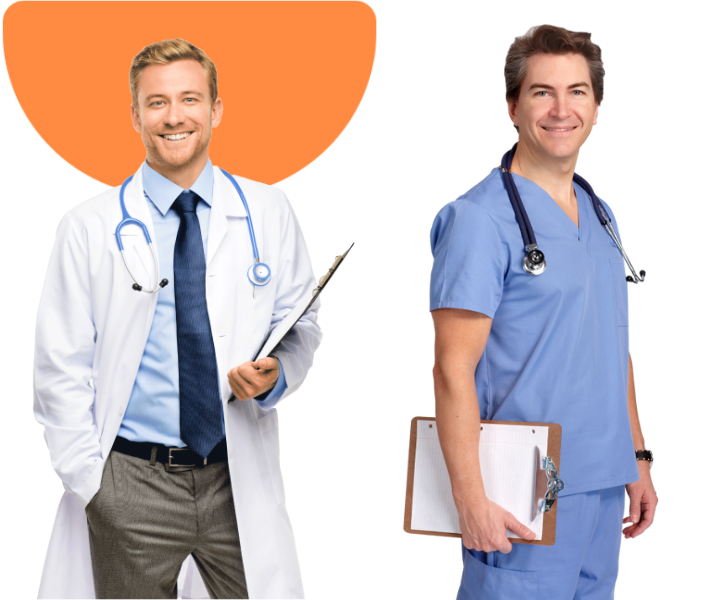
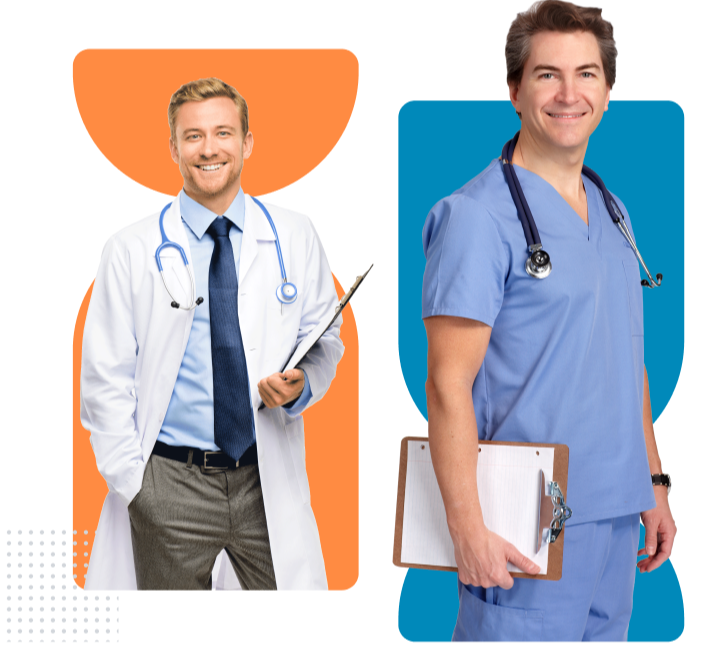
responsive navbar added, image added

diff --git a/src/Components/MobileHrader.js b/src/Components/MobileHrader.js
@@ -1,0 +1,108 @@
+import React, { useState } from 'react'
+import logo from '../images/logo.png';
+
+function MobileHrader() {
+    const [navbar, setNavbar] = useState(false);
+    return (
+        <>
+            <nav className="w-full bg-gray-800 shadow mobile-header">
+                <div className="justify-between px-4 mx-auto lg:max-w-7xl md:items-center md:flex md:px-8">
+                    <div>
+                        <div className="flex items-center justify-between py-3 md:py-5 md:block">
+                            <a className="flex title-font font-medium items-center text-gray-900 mb-4 md:mb-0">
+                                <img alt="feature" className="object-cover object-center" src={logo} />
+                                <span className="ml-3 text-orange-400 text-3xl">Doctor Guide</span>
+                            </a>
+                            <div className="md:hidden">
+                                <button
+                                    className="p-2 text-white rounded-md outline-none focus:border-gray-400 focus:border"
+                                    onClick={() => setNavbar(!navbar)}
+                                >
+                                    {navbar ? (
+                                        <svg
+                                            xmlns="http://www.w3.org/2000/svg"
+                                            className="w-6 h-6"
+                                            viewBox="0 0 20 20"
+                                            fill="currentColor"
+                                        >
+                                            <path
+                                                fillRule="evenodd"
+                                                d="M4.293 4.293a1 1 0 011.414 0L10 8.586l4.293-4.293a1 1 0 111.414 1.414L11.414 10l4.293 4.293a1 1 0 01-1.414 1.414L10 11.414l-4.293 4.293a1 1 0 01-1.414-1.414L8.586 10 4.293 5.707a1 1 0 010-1.414z"
+                                                clipRule="evenodd"
+                                            />
+                                        </svg>
+                                    ) : (
+                                        <svg
+                                            xmlns="http://www.w3.org/2000/svg"
+                                            className="w-6 h-6"
+                                            fill="none"
+                                            viewBox="0 0 24 24"
+                                            stroke="currentColor"
+                                            strokeWidth={2}
+                                        >
+                                            <path
+                                                strokeLinecap="round"
+                                                strokeLinejoin="round"
+                                                d="M4 6h16M4 12h16M4 18h16"
+                                            />
+                                        </svg>
+                                    )}
+                                </button>
+                            </div>
+                        </div>
+                    </div>
+                    <div>
+                        <div
+                            className={`flex-1 justify-self-center pb-3 mt-8 md:block md:pb-0 md:mt-0 ${navbar ? "block" : "hidden"
+                                }`}
+                        >
+                            <ul className="items-center justify-center space-y-8 md:flex md:space-x-6 md:space-y-0">
+                                <li className="text-gray-600 hover:text-blue-600">
+                                    <a className="mr-5 text-white flex">HOME
+                                        <span className='mt-1 ml-0.5'>
+                                            <svg xmlns="http://www.w3.org/2000/svg" width="16" height="16" fill="currentColor" class="bi bi-chevron-compact-down" viewBox="0 0 16 16"> <path fill-rule="evenodd" d="M1.553 6.776a.5.5 0 0 1 .67-.223L8 9.44l5.776-2.888a.5.5 0 1 1 .448.894l-6 3a.5.5 0 0 1-.448 0l-6-3a.5.5 0 0 1-.223-.67z" /> </svg>
+                                        </span>
+                                    </a>
+                                </li>
+                                <li className="text-gray-600 hover:text-blue-600">
+                                    <a className="mr-5 text-white flex">FEATURES
+                                        <span className='mt-1 ml-0.5'>
+                                            <svg xmlns="http://www.w3.org/2000/svg" width="16" height="16" fill="currentColor" class="bi bi-chevron-compact-down" viewBox="0 0 16 16"> <path fill-rule="evenodd" d="M1.553 6.776a.5.5 0 0 1 .67-.223L8 9.44l5.776-2.888a.5.5 0 1 1 .448.894l-6 3a.5.5 0 0 1-.448 0l-6-3a.5.5 0 0 1-.223-.67z" /> </svg>
+                                        </span>
+                                    </a>
+                                </li>
+                                <li className="text-gray-600 hover:text-blue-600">
+                                    <a className="mr-5 text-white flex">DEPARTMENT
+                                        <span className='mt-1 ml-0.5'>
+                                            <svg xmlns="http://www.w3.org/2000/svg" width="16" height="16" fill="currentColor" class="bi bi-chevron-compact-down" viewBox="0 0 16 16"> <path fill-rule="evenodd" d="M1.553 6.776a.5.5 0 0 1 .67-.223L8 9.44l5.776-2.888a.5.5 0 1 1 .448.894l-6 3a.5.5 0 0 1-.448 0l-6-3a.5.5 0 0 1-.223-.67z" /> </svg>
+                                        </span>
+                                    </a>
+                                </li>
+                                <li className="text-gray-600 hover:text-blue-600">
+                                    <a className="mr-5 text-white flex">EVENT
+                                        <span className='mt-1 ml-0.5'>
+                                            <svg xmlns="http://www.w3.org/2000/svg" width="16" height="16" fill="currentColor" class="bi bi-chevron-compact-down" viewBox="0 0 16 16"> <path fill-rule="evenodd" d="M1.553 6.776a.5.5 0 0 1 .67-.223L8 9.44l5.776-2.888a.5.5 0 1 1 .448.894l-6 3a.5.5 0 0 1-.448 0l-6-3a.5.5 0 0 1-.223-.67z" /> </svg>
+                                        </span>
+                                    </a>
+                                </li>
+                                <li className="text-gray-600 hover:text-blue-600">
+                                    <a className="mr-5 text-white flex">CONTACT
+                                        <span className='mt-1 ml-0.5'>
+                                            <svg xmlns="http://www.w3.org/2000/svg" width="16" height="16" fill="currentColor" class="bi bi-chevron-compact-down" viewBox="0 0 16 16"> <path fill-rule="evenodd" d="M1.553 6.776a.5.5 0 0 1 .67-.223L8 9.44l5.776-2.888a.5.5 0 1 1 .448.894l-6 3a.5.5 0 0 1-.448 0l-6-3a.5.5 0 0 1-.223-.67z" /> </svg>
+                                        </span>
+                                    </a>
+                                </li>
+                                <li className="text-gray-600 hover:text-blue-600">
+                                    <button className="inline-flex items-center bg-orange-500 border-0 py-2 px-3 focus:outline-none rounded text-white mt-4 md:mt-0 mr-2.5">LOGIN</button>
+                                    <button className="inline-flex items-center bg-orange-500 border-0 py-2 px-3 focus:outline-none rounded text-white mt-4 md:mt-0">SIGNUP</button>
+                                </li>
+                            </ul>
+                        </div>
+                    </div>
+                </div>
+            </nav>
+        </>
+    )
+}
+
+export default MobileHrader

diff --git a/src/Components/Team.js b/src/Components/Team.js
@@ -1,4 +1,6 @@
 import React from 'react'
+import TeamData from '../Database/TeamData'
+import expert from '../images/expert.png'
 
 function Team() {
     return (
@@ -10,45 +12,25 @@ function Team() {
                         <p className="lg:w-2/3 mx-auto leading-relaxed text-2xl text-base">Whatever cardigan tote bag</p>
                     </div>
                     <div className="flex flex-wrap -m-4">
-                        <div className="p-4 md:w-1/3">
-                            <div className="h-full border-2 border-gray-200 border-opacity-60 rounded-lg overflow-hidden">
-                                <img className="lg:h-48 md:h-36 w-full object-cover object-center" src="https://dummyimage.com/720x400" alt="blog" />
-                                <div className="p-6">
-                                    <h1 className="title-font text-3xl font-medium text-gray-900 mb-1">The Catalyzer</h1>
-                                    <h1 className="title-font text-2xl text-gray-700 mb-3">The Catalyzer</h1>
-                                    <div className="flex flex-col items-end">
-                                        <p className="leading-relaxed">Photo booth fam kinfolk cold-pressed sriracha leggings.</p>
-                                        <button className="text-white bg-orange-500 border-0 py-2 px-3 focus:outline-none rounded-md text-md">Book Now</button>
+                        {
+                            TeamData.map(member => {
+                                return (
+                                    <div className="p-4 md:w-1/3">
+                                        <div className="h-full border-2 border-gray-200 border-opacity-60 rounded-lg overflow-hidden" key={member.id}>
+                                            <img className="lg:h-64 md:h-48 w-full object-cover object-center" src={expert} alt="blog" />
+                                            <div className="p-6">
+                                                <h1 className="title-font text-3xl font-medium text-gray-900 mb-1">{member.memberName}</h1>
+                                                <h1 className="title-font text-2xl text-gray-700 mb-3">{member.qualification}</h1>
+                                                <div className="flex flex-col items-end">
+                                                    <p className="leading-relaxed">{member.description}</p>
+                                                    <button className="text-white bg-orange-500 border-0 py-2 px-3 focus:outline-none rounded-md text-md">Book Now</button>
+                                                </div>
+                                            </div>
+                                        </div>
                                     </div>
-                                </div>
-                            </div>
-                        </div>
-                        <div className="p-4 md:w-1/3">
-                            <div className="h-full border-2 border-gray-200 border-opacity-60 rounded-lg overflow-hidden">
-                                <img className="lg:h-48 md:h-36 w-full object-cover object-center" src="https://dummyimage.com/721x401" alt="blog" />
-                                <div className="p-6">
-                                    <h1 className="title-font text-3xl font-medium text-gray-900 mb-1">The Catalyzer</h1>
-                                    <h1 className="title-font text-2xl text-gray-700 mb-3">The Catalyzer</h1>
-                                    <div className="flex flex-col items-end">
-                                        <p className="leading-relaxed">Photo booth fam kinfolk cold-pressed sriracha leggings.</p>
-                                        <button className="text-white bg-orange-500 border-0 py-2 px-3 focus:outline-none rounded-md text-md">Book Now</button>
-                                    </div>
-                                </div>
-                            </div>
-                        </div>
-                        <div className="p-4 md:w-1/3">
-                            <div className="h-full border-2 border-gray-200 border-opacity-60 rounded-lg overflow-hidden">
-                                <img className="lg:h-48 md:h-36 w-full object-cover object-center" src="https://dummyimage.com/722x402" alt="blog" />
-                                <div className="p-6">
-                                    <h1 className="title-font text-3xl font-medium text-gray-900 mb-1">The Catalyzer</h1>
-                                    <h1 className="title-font text-2xl text-gray-700 mb-3">The Catalyzer</h1>
-                                    <div className="flex flex-col items-end">
-                                        <p className="leading-relaxed">Photo booth fam kinfolk cold-pressed sriracha leggings.</p>
-                                        <button className="text-white bg-orange-500 border-0 py-2 px-3 focus:outline-none rounded-md text-md">Book Now</button>
-                                    </div>
-                                </div>
-                            </div>
-                        </div>
+                                )
+                            })
+                        }
                     </div>
                 </div>
             </section>

diff --git a/src/Components/SubscribeBox.js b/src/Components/SubscribeBox.js
@@ -1,14 +1,15 @@
 import React from 'react'
+import subscribeimg from '../images/subscribe.png'
 
 function SubscribeBox() {
     return (
         <>
             <section className="text-gray-600 body-font">
-                <div className="container mx-auto flex px-5 md:flex-row flex-col items-center bg-blue-600 rounded-lg">
+                <div className="container mx-auto flex px-5 md:flex-row flex-col items-center rounded-lg">
                     <div className="lg:max-w-lg lg:w-full md:w-1/2 w-5/6 mb-10 md:mb-0">
-                        <img className="object-cover object-center rounded" alt="hero" src="https://dummyimage.com/720x600" />
+                        <img className="object-cover object-center rounded" alt="hero" src={subscribeimg} />
                     </div>
-                    <div className="lg:flex-grow md:w-1/2 lg:pl-24 md:pl-16 flex flex-col md:items-start md:text-left items-center text-center">
+                    <div className="lg:flex-grow md:w-1/2 lg:pl-24 md:pl-16 flex flex-col md:items-start md:text-left items-center text-center bg-sky-600 rounded-lg h-5/6 pt-24 pb-40 mt-32">
                         <h1 className="title-font sm:text-4xl text-3xl mb-4 font-bold text-white">Subscribe Now</h1>
                         <p className="mb-8 leading-relaxed text-white">Chillwave portland ugh, knausgaard fam polaroid iPhone. Man braid swag typewriter affogato, hella selvage wolf narwhal dreamcatcher.</p>
 
@@ -23,13 +24,6 @@ function SubscribeBox() {
 
                             </div>
                         </div>
-
-                        {/* <div className="flex bg-white w-72 py-2 rounded-md md:justify-start justify-center items-end">
-                            <div className="relative mr-4 lg:w-full xl:w-10/12">
-                                <input type="text" id="hero-field" name="hero-field" className="w-full bg-white rounded focus:ring-2 focus:ring-indigo-200 focus:bg-transparent focus:border-indigo-500 text-base outline-none text-gray-700 py-1 px-3 leading-8 transition-colors duration-200 ease-in-out" />
-                            </div>
-                            <button className="inline-flex text-white bg-orange-500 border-0 py-2 px-6 rounded-md text-lg">Submit</button>
-                        </div> */}
                     </div>
                 </div>
             </section>

diff --git a/src/Components/Events.js b/src/Components/Events.js
@@ -1,4 +1,6 @@
 import React from 'react'
+import event1 from '../images/event1.png'
+import event2 from '../images/event2.png'
 
 function Events() {
     return (
@@ -6,7 +8,7 @@ function Events() {
             <section className="text-gray-600 body-font">
                 <div className="container mx-auto flex px-5 py-24 md:flex-row flex-col items-center">
                     <div className="lg:max-w-lg lg:w-full md:w-1/2 w-5/6 mb-10 md:mb-0">
-                        <img className="object-cover object-center rounded" alt="hero" src="https://dummyimage.com/720x600" />
+                        <img className="object-cover object-center rounded" alt="hero" src={event1} />
                     </div>
                     <div className="lg:flex-grow md:w-1/2 lg:pl-24 md:pl-16 flex flex-col md:items-start md:text-left items-center text-center">
                         <h1 className="title-font sm:text-4xl text-3xl mb-4 font-medium text-gray-900">How to lead a good healthy life</h1>
@@ -69,7 +71,7 @@ function Events() {
                         </div>
                     </div>
                     <div className="lg:max-w-lg lg:w-full md:w-1/2 w-5/6 mb-10 md:mb-0">
-                        <img className="object-cover object-center rounded" alt="hero" src="https://dummyimage.com/720x600" />
+                        <img className="object-cover object-center rounded" alt="hero" src={event2} />
                     </div>
                 </div>
             </section>

diff --git a/src/Components/Review.js b/src/Components/Review.js
@@ -1,4 +1,5 @@
 import React from 'react'
+import reviewImg from '../images/review.png'
 
 function Review() {
     return (
@@ -6,7 +7,7 @@ function Review() {
             <section className="text-gray-600 body-font overflow-hidden">
                 <div className="container px-5 py-24 mx-auto bg-indigo-200 rounded-lg">
                     <div className="lg:w-4/5 mx-auto flex flex-wrap px-20">
-                        <img alt="ecommerce" className="lg:w-1/2 w-full lg:h-auto h-42 object-cover object-center rounded-full" src="https://dummyimage.com/200x200" />
+                        <img alt="ecommerce" className="lg:w-1/2 w-full lg:h-auto h-42 object-cover object-center rounded-full" src={reviewImg} />
                         <div className="lg:w-1/2 w-full lg:pl-10 lg:py-6 mt-6 lg:mt-16">
                             <p className="leading-relaxed">Fam locavore kickstarter distillery. Mixtape chillwave tumeric sriracha taximy chia microdosing tilde DIY. XOXO fam indxgo juiceramps cornhole raw denim forage brooklyn. Everyday carry +1 seitan poutine tumeric. Gastropub blue bottle austin listicle pour-over, neutra jean shorts keytar banjo tattooed umami cardigan.</p>
                             <h1 className="text-gray-900 text-md title-font font-medium mt-6 mb-1">Tom Cooper</h1>

diff --git a/src/App.css b/src/App.css
@@ -1,38 +1,13 @@
-.App {
-  text-align: center;
+.mobile-header {
+  display: none;
 }
 
-.App-logo {
-  height: 40vmin;
-  pointer-events: none;
-}
-
-@media (prefers-reduced-motion: no-preference) {
-  .App-logo {
-    animation: App-logo-spin infinite 20s linear;
+@media (max-width: 767.98px) {
+  .mobile-header {
+    display: block;
   }
-}
 
-.App-header {
-  background-color: #282c34;
-  min-height: 100vh;
-  display: flex;
-  flex-direction: column;
-  align-items: center;
-  justify-content: center;
-  font-size: calc(10px + 2vmin);
-  color: white;
-}
-
-.App-link {
-  color: #61dafb;
-}
-
-@keyframes App-logo-spin {
-  from {
-    transform: rotate(0deg);
-  }
-  to {
-    transform: rotate(360deg);
+  .desktop-header {
+    display: none;
   }
 }

diff --git a/src/Components/Schedule.js b/src/Components/Schedule.js
@@ -1,5 +1,6 @@
 import React from 'react'
 import ScheduleData from '../Database/ScheduleData'
+import ScheduleImg from '../images/schedule.png'
 
 function Schedule() {
     return (
@@ -26,7 +27,7 @@ function Schedule() {
                         }
                     </div>
                     <div className="lg:w-1/2 w-full mb-10 lg:mb-0 rounded-lg overflow-hidden">
-                        <img alt="feature" className="object-cover object-center h-full w-full" src="https://dummyimage.com/460x500" />
+                        <img alt="feature" className="object-cover object-center h-full w-full" src={ScheduleImg} />
                     </div>
                 </div>
             </section>

diff --git a/src/Database/TeamData.js b/src/Database/TeamData.js
@@ -1,0 +1,22 @@
+const TeamData = [
+    {
+        id: 1,
+        memberName: "Dr. Emrul Kayes",
+        qualification: "MBBS, FCFS, BCS, BSCBS",
+        description: "Lorem ipsum dolor sit amet, consectetur adipiscing elit. Urna."
+    },
+    {
+        id: 2,
+        memberName: "Dr. Emrul Kayes",
+        qualification: "MBBS, FCFS, BCS, BSCBS",
+        description: "Lorem ipsum dolor sit amet, consectetur adipiscing elit. Urna."
+    },
+    {
+        id: 3,
+        memberName: "Dr. Emrul Kayes",
+        qualification: "MBBS, FCFS, BCS, BSCBS",
+        description: "Lorem ipsum dolor sit amet, consectetur adipiscing elit. Urna."
+    },
+]
+
+export default TeamData;

diff --git a/src/Components/Header.js b/src/Components/Header.js
@@ -4,7 +4,7 @@ import logo from '../images/logo.png';
 function Header() {
     return (
         <>
-            <header className="text-gray-600 body-font bg-gray-800">
+            <header className="text-gray-600 body-font bg-gray-800 desktop-header">
                 <div className="container mx-auto flex flex-wrap p-5 flex-col md:flex-row items-center">
                     <a className="flex title-font font-medium items-center text-gray-900 mb-4 md:mb-0">
                         <img alt="feature" className="object-cover object-center" src={logo} />

diff --git a/src/App.js b/src/App.js
@@ -4,6 +4,7 @@ import Feature from './Components/Feature';
 import Footer from './Components/Footer';
 import Header from './Components/Header';
 import Hero from './Components/Hero';
+import MobileHrader from './Components/MobileHrader';
 import Review from './Components/Review';
 import Schedule from './Components/Schedule';
 import Service from './Components/Service';
@@ -15,6 +16,7 @@ function App() {
   return (
     <>
       <Header />
+      <MobileHrader />
       <Hero />
       <Step />
       <Schedule />
